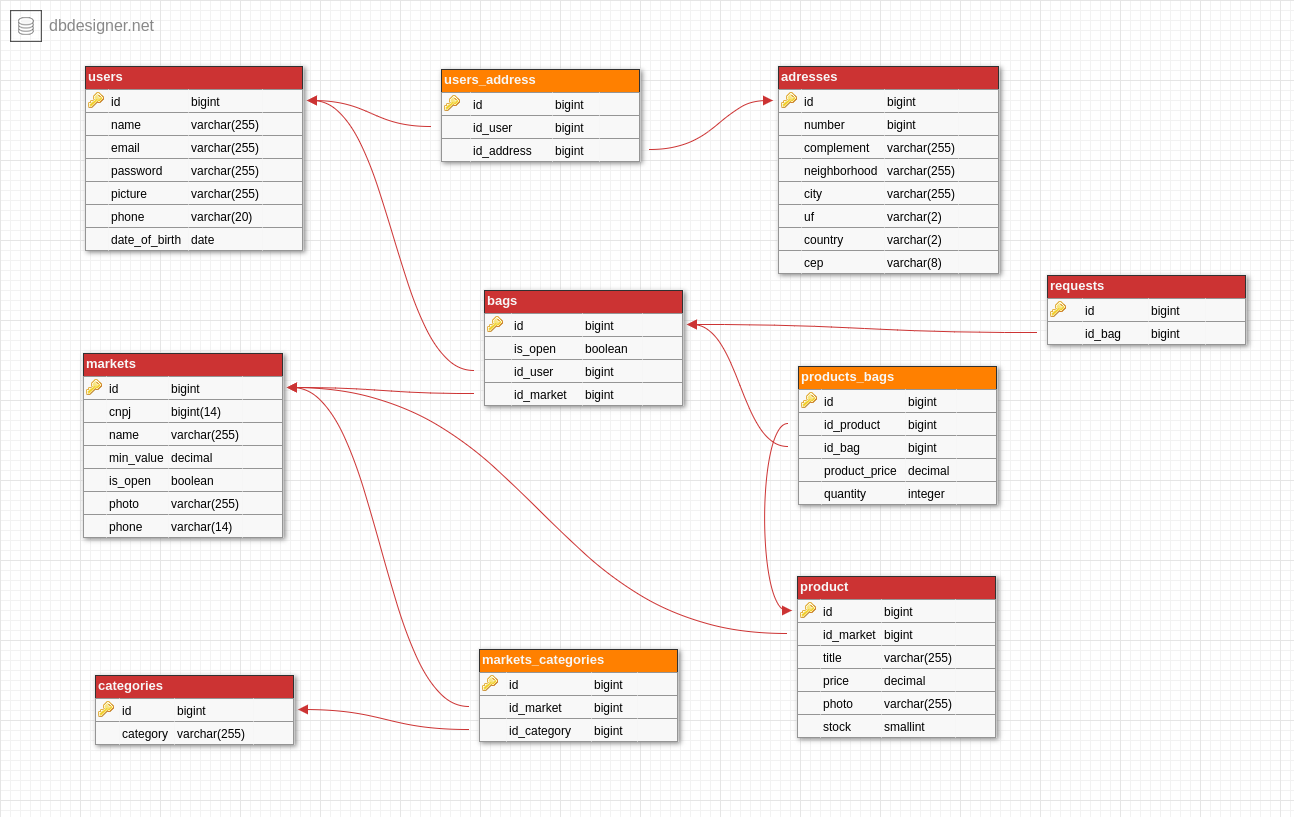
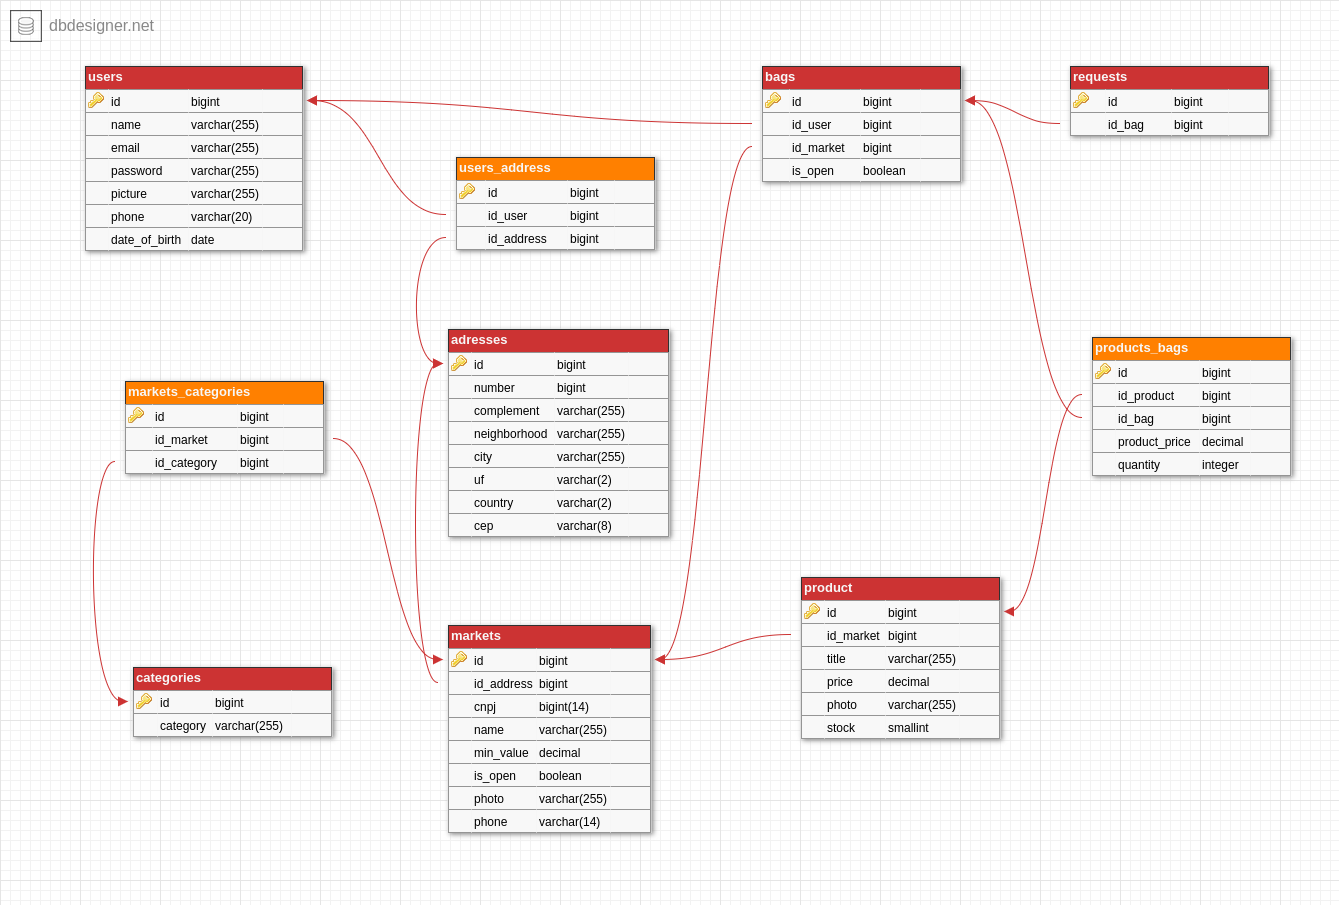
Iniciando a tratar categorias, mercados e endereços

diff --git a/backend/app/Controllers/Http/MarketController.js b/backend/app/Controllers/Http/MarketController.js
@@ -1,0 +1,102 @@
+'use strict'
+
+const Market = use('App/Models/Market')
+const Address = use('App/Models/Address')
+const Category = use('App/Models/Category')
+const Database = use('Database')
+
+/** @typedef {import('@adonisjs/framework/src/Request')} Request */
+/** @typedef {import('@adonisjs/framework/src/Response')} Response */
+/** @typedef {import('@adonisjs/framework/src/View')} View */
+
+/**
+ * Resourceful controller for interacting with markets
+ */
+class MarketController {
+  /**
+   * Create/save a new market.
+   * POST markets
+   *
+   * @param {object} ctx
+   * @param {Request} ctx.request
+   * @param {Response} ctx.response
+   */
+  async store ({ request, response }) {
+    // A proposta futura é separar todos esses inserts em funções separadas
+
+    const market = new Market()
+    market.cnpj = request.body.cnpj
+    market.name = request.body.name
+    market.min_value = request.body.minValue
+    market.is_open = request.body.isOpen
+    market.photo = request.body.photo
+    market.phone = request.body.phone
+
+    const address = new Address()
+    address.number = request.body.address.number
+    address.complement = request.body.address.complement
+    address.neighborhood = request.body.address.neighborhood
+    address.city = request.body.address.city
+    address.uf = request.body.address.uf
+    address.country = request.body.address.country
+    address.cep = request.body.address.cep
+
+    const categories = {
+      categories: request.body.categories,
+      registred: [],
+    }
+
+    try{
+      await market.save()
+    }
+    catch (err) {
+      return response.status(500).json({
+        'message': "Market wasn't created"
+      })
+    }
+
+    try{
+      await address.save()
+      await market.address().associate(address)
+    }
+    catch (err) {
+      await market.delete()
+      return response.status(500).json({
+        'message': "Address error! Market deleted"
+      })
+    }
+
+    //Funcionalidade de likar categorias
+    for(const category of categories.categories){
+      const categoryRegisted = await Category.query().where('category', category).first()
+
+      if( categoryRegisted ){
+        await market.categories().attach(categoryRegisted.id)
+        categories.registred.push(category)
+      }
+    }
+
+    return { market, categories }
+  }
+
+  /**
+   * Display a single market.
+   * GET markets/:id
+   *
+   * @param {object} ctx
+   * @param {Request} ctx.request
+   * @param {Response} ctx.response
+   */
+  async show ({ params, request, response }) {
+    const market_id = params.id
+    const market = await Market.find(market_id)
+    const address = await Address.find(market.address_id)
+
+    market.address = address
+    market.categories = await market.categories().fetch()
+
+    return { market }
+  }
+}
+
+module.exports = MarketController

diff --git a/backend/app/Controllers/Http/UserController.js b/backend/app/Controllers/Http/UserController.js
@@ -1,7 +1,6 @@
 'use strict'
 
 const User = use('App/Models/User')
-const Database = use('Database')
 
 /** @typedef {import('@adonisjs/framework/src/Request')} Request */
 /** @typedef {import('@adonisjs/framework/src/Response')} Response */
@@ -14,6 +13,7 @@ class UserController {
   /**
    * Show a list of all users.
    * GET users
+   * Ok, it's working
    *
    * @param {object} ctx
    * @param {Request} ctx.request
@@ -33,6 +33,7 @@ class UserController {
   /**
    * Create/save a new user.
    * POST users
+   * Ok, it's working
    *
    * @param {object} ctx
    * @param {Request} ctx.request
@@ -56,40 +57,6 @@ class UserController {
     }
 
     return response.json({user})
-  }
-
-  /**
-   * Display a single user.
-   * GET users/:id
-   *
-   * @param {object} ctx
-   * @param {Request} ctx.request
-   * @param {Response} ctx.response
-   * @param {View} ctx.view
-   */
-  async show ({ params, request, response, view }) {
-  }
-
-  /**
-   * Update user details.
-   * PUT or PATCH users/:id
-   *
-   * @param {object} ctx
-   * @param {Request} ctx.request
-   * @param {Response} ctx.response
-   */
-  async update ({ params, request, response }) {
-  }
-
-  /**
-   * Delete a user with id.
-   * DELETE users/:id
-   *
-   * @param {object} ctx
-   * @param {Request} ctx.request
-   * @param {Response} ctx.response
-   */
-  async destroy ({ params, request, response }) {
   }
 }
 

diff --git a/backend/app/Controllers/Http/JwtController.js b/backend/app/Controllers/Http/JwtController.js
@@ -13,21 +13,9 @@ const Hash = use('Hash')
  */
 class JwtController {
   /**
-   * Returns valid tokens.
-   * GET jwts
-   *
-   * @param {Request} ctx.request
-   * @param {Response} ctx.response
-   */
-  async listTokens ({ request, response, auth }) {
-    const tokens = await auth.getUser().listTokens()
-
-    return tokens
-  }
-  
-  /**
    * Returns the logged in user.
    * GET jwts
+   * Ok, it's working
    *
    * @param {Request} ctx.request
    * @param {Response} ctx.response
@@ -41,6 +29,7 @@ class JwtController {
   /**
    * Cria uma sessão do usuário e retorna o token
    * POST jwts
+   * Ok, it's working
    *
    * @param {Request} ctx.request
    * @param {Response} ctx.response
@@ -48,20 +37,9 @@ class JwtController {
   async login ({ request, response, auth }) {
     const email = request.body.email
     const password = request.body.password
-    
+
     const token = await auth.attempt(email, password)
     return {token}
-  }
-
-  /**
-   * End user session
-   * POST jwts
-   *
-   * @param {Request} ctx.request
-   * @param {Response} ctx.response
-   */
-  async logout ({ request, response, auth }) {
-    return await auth.logout()
   }
 }
 

diff --git a/backend/database/migrations/1586396844029_markets_schema.js b/backend/database/migrations/1586396844029_markets_schema.js
@@ -3,17 +3,19 @@
 /** @type {import('@adonisjs/lucid/src/Schema')} */
 const Schema = use('Schema')
 
-class MarketsSchema extends Schema {
+class MarketSchema extends Schema {
   up () {
     this.create('markets', (table) => {
       table.increments()
 
-      table.bigInteger('cnpj', 14).notNullable()
+      table.string('cnpj', 20).notNullable().unique()
       table.string('name', 254).notNullable()
       table.decimal('min_value', 6, 2).notNullable()
-      table.boolean('is_open').defaultTo(false).notNullable()
+      table.boolean('is_open').notNullable()
       table.string('photo', 254).notNullable()
       table.string('phone', 20).notNullable()
+
+      table.bigInteger('address_id').references('id').on('adresses')
 
       table.timestamps()
     })
@@ -24,4 +26,4 @@ class MarketsSchema extends Schema {
   }
 }
 
-module.exports = MarketsSchema
+module.exports = MarketSchema

diff --git a/backend/start/routes.js b/backend/start/routes.js
@@ -16,13 +16,15 @@
 /** @type {typeof import('@adonisjs/framework/src/Route/Manager')} */
 const Route = use('Route')
 
+//User
 Route.on('/').render('welcome')
 Route.post('/users/store', 'UserController.store');
 Route.get('/users', 'UserController.index');
 
-// Route.on('/').render('welcome')
+//Session
 Route.post('/session/login', 'JwtController.login');
 Route.get('/session/me', 'JwtController.me');
-Route.get('/session/tokens', 'JwtController.listTokens');
-Route.delete('/session/logout', 'JwtController.logout');
-// Route.get('/users', 'UserController.index');
+
+//Market
+Route.post('/market/store', 'MarketController.store')
+Route.get('/market/show/:id', 'MarketController.show')

diff --git a/backend/database/migrations/1586403564503_categories_markets_schema.js b/backend/database/migrations/1586403564503_categories_markets_schema.js
@@ -1,0 +1,23 @@
+'use strict'
+
+/** @type {import('@adonisjs/lucid/src/Schema')} */
+const Schema = use('Schema')
+
+class CategoriesMarketsSchema extends Schema {
+  up () {
+    this.create('categories_markets', (table) => {
+      table.increments()
+
+      table.bigInteger('category_id').references('id').on('categories')
+      table.bigInteger('market_id').references('id').on('markets')
+
+      table.timestamps()
+    })
+  }
+
+  down () {
+    this.drop('categories_markets')
+  }
+}
+
+module.exports = CategoriesMarketsSchema

diff --git a/backend/app/Models/Market.js b/backend/app/Models/Market.js
@@ -1,0 +1,22 @@
+'use strict'
+
+/** @type {typeof import('@adonisjs/lucid/src/Lucid/Model')} */
+const Model = use('Model')
+
+class Market extends Model {
+  address() {
+    return this.belongsTo('App/Models/Address')
+  }
+
+  categories() {
+    return this.belongsToMany(
+      'App/Models/Category',
+      'market_id',
+      'category_id',
+      'id',
+      'id'
+    ).pivotTable('categories_markets')
+  }
+}
+
+module.exports = Market

diff --git a/backend/database/migrations/1586396403258_users_schema.js b/backend/database/migrations/1586396403258_users_schema.js
@@ -3,7 +3,7 @@
 /** @type {import('@adonisjs/lucid/src/Schema')} */
 const Schema = use('Schema')
 
-class UserSchema extends Schema {
+class UsersSchema extends Schema {
   up () {
     this.create('users', (table) => {
       table.increments()
@@ -22,4 +22,4 @@ class UserSchema extends Schema {
   }
 }
 
-module.exports = UserSchema
+module.exports = UsersSchema

diff --git a/backend/app/Models/Category.js b/backend/app/Models/Category.js
@@ -1,0 +1,17 @@
+'use strict'
+
+/** @type {typeof import('@adonisjs/lucid/src/Lucid/Model')} */
+const Model = use('Model')
+
+class Category extends Model {
+  static get table() {
+    return 'categories'
+  }
+
+  static get hidden() {
+    return ['created_at', 'updated_at', 'id']
+  }
+
+}
+
+module.exports = Category

diff --git a/backend/app/Models/Address.js b/backend/app/Models/Address.js
@@ -2,10 +2,15 @@
 
 /** @type {typeof import('@adonisjs/lucid/src/Lucid/Model')} */
 const Model = use('Model')
+const Market = use('App/Models/Market')
 
 class Address extends Model {
   static get table() {
     return 'adresses'
+  }
+
+  markets() {
+    return this.hasMany('App/Models/Market')
   }
 }
 

diff --git a/backend/database/migrations/1586403289528_categories_schema.js b/backend/database/migrations/1586403289528_categories_schema.js
@@ -7,6 +7,9 @@ class CategoriesSchema extends Schema {
   up () {
     this.create('categories', (table) => {
       table.increments()
+
+      table.string('category').notNullable().unique()
+
       table.timestamps()
     })
   }

diff --git a/backend/app/Controllers/Http/CategoryController.js b/backend/app/Controllers/Http/CategoryController.js
@@ -1,0 +1,6 @@
+'use strict'
+
+class CategoryController {
+}
+
+module.exports = CategoryController
